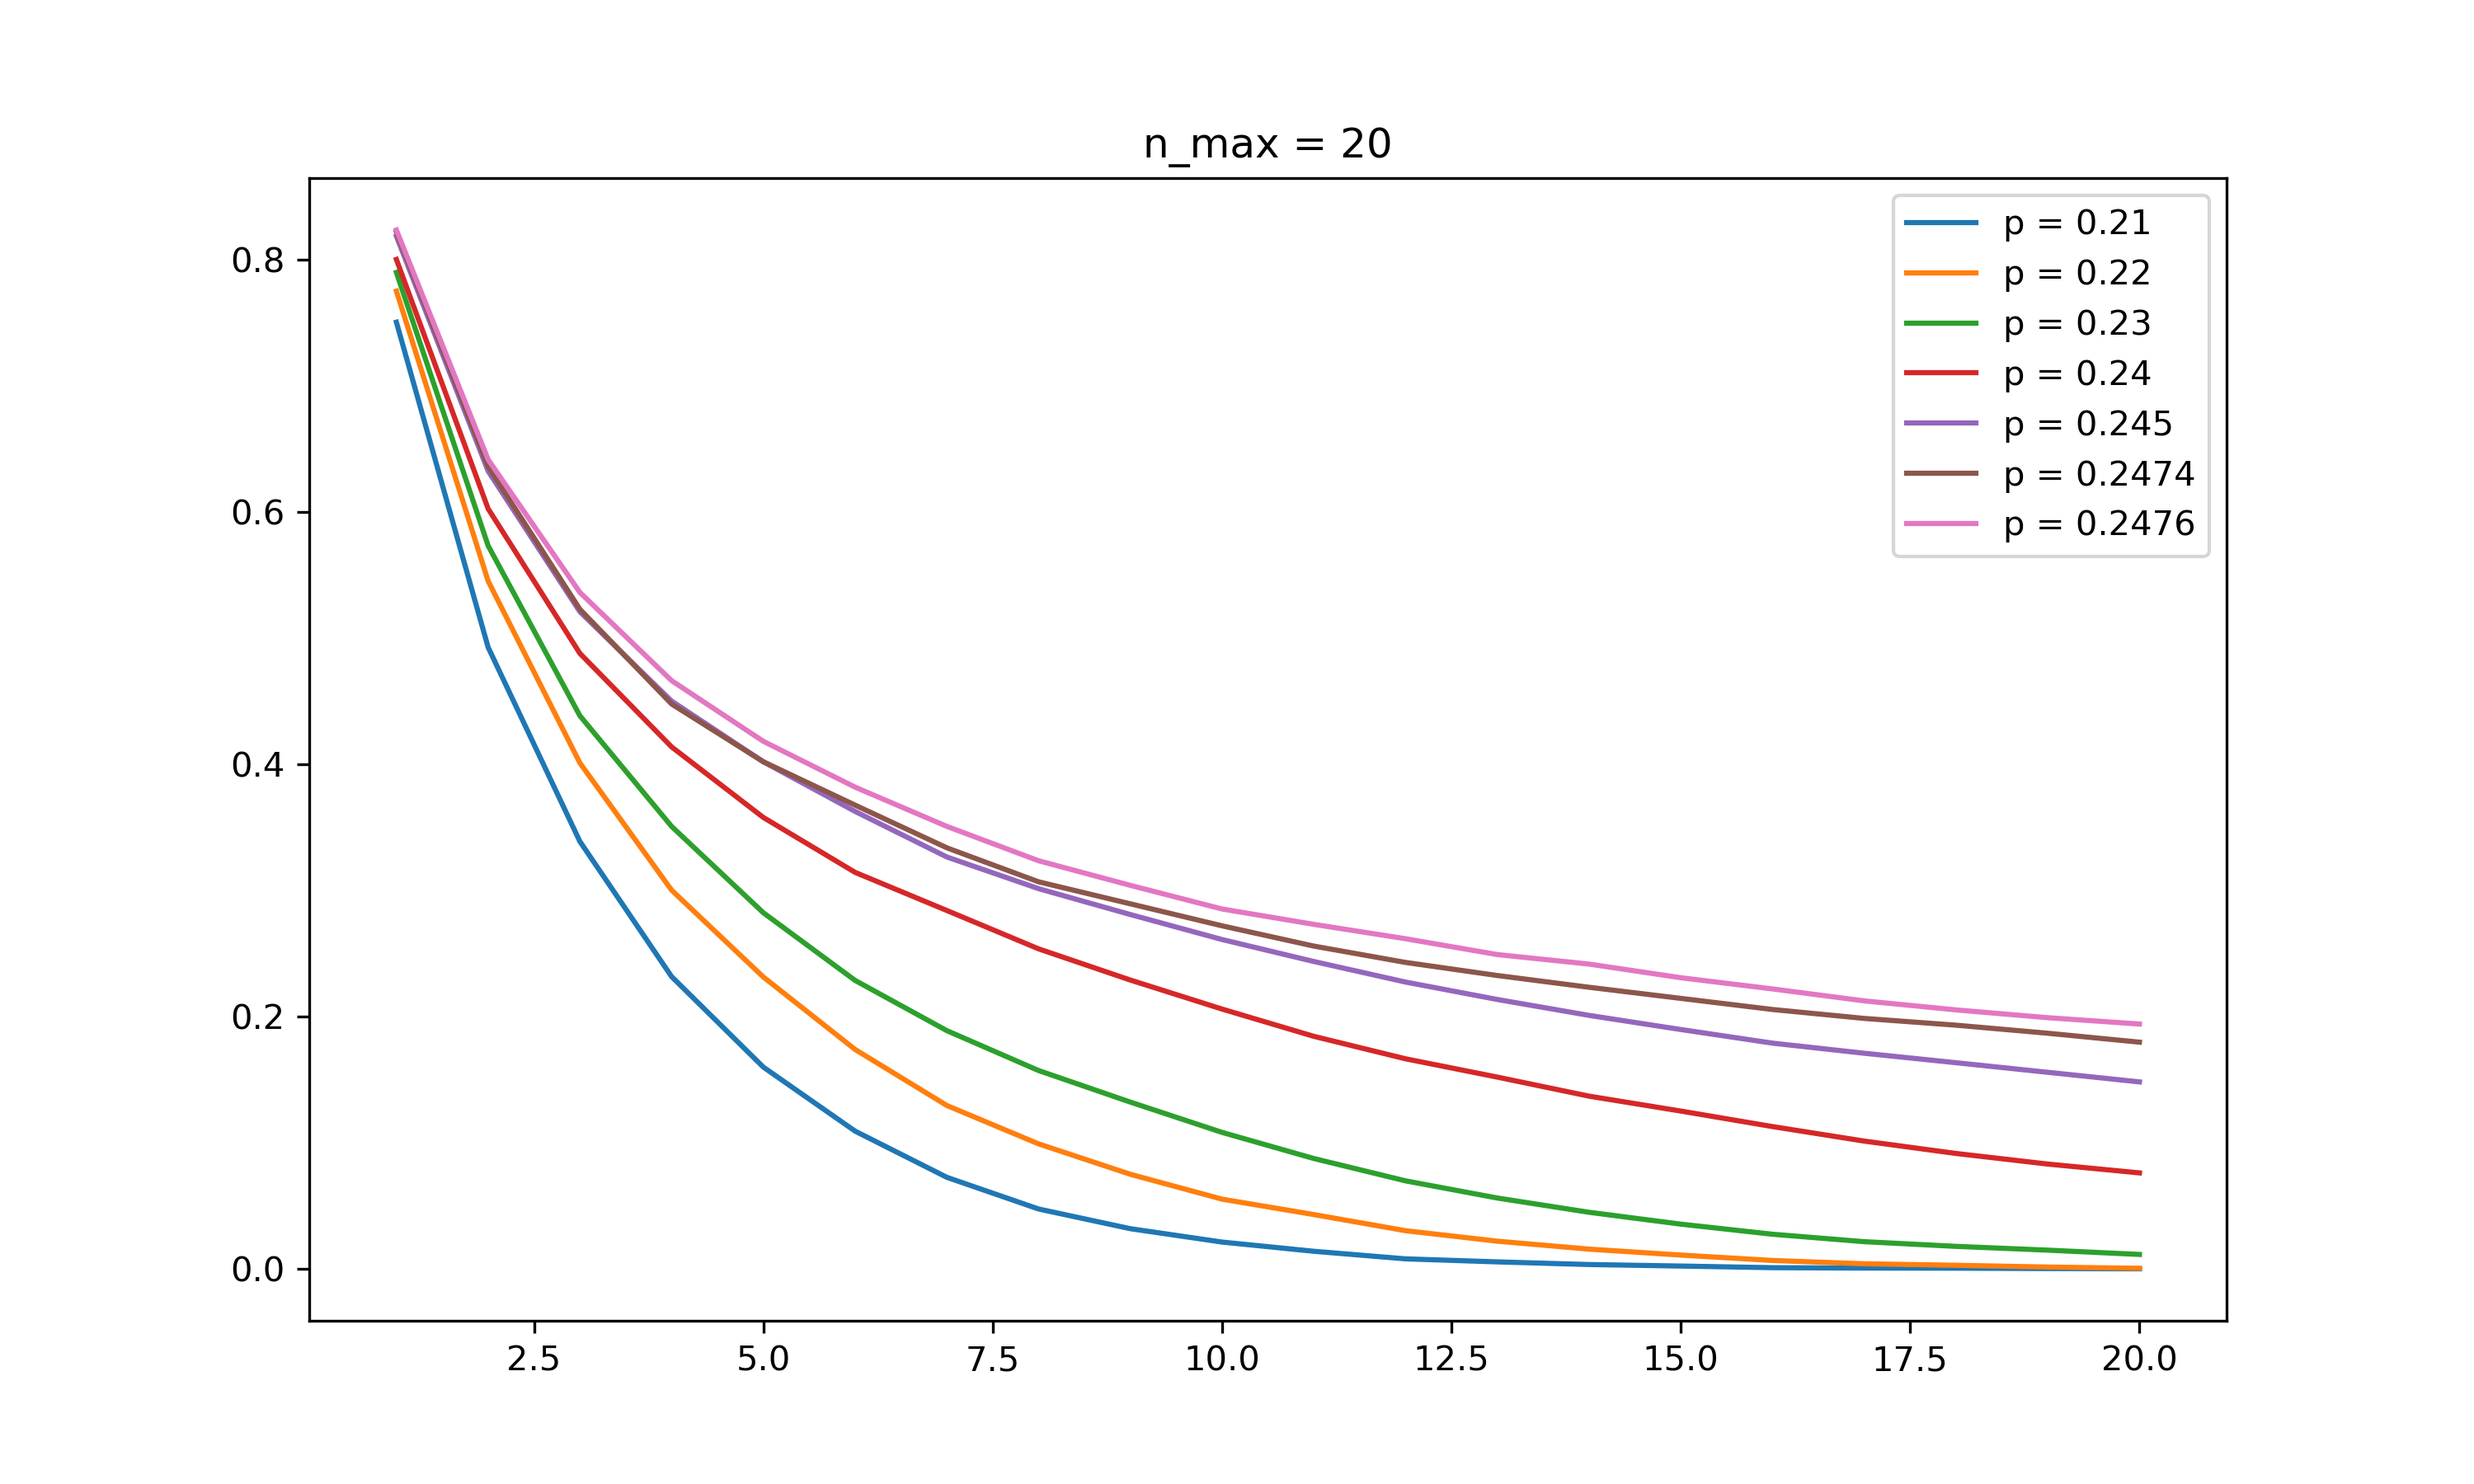
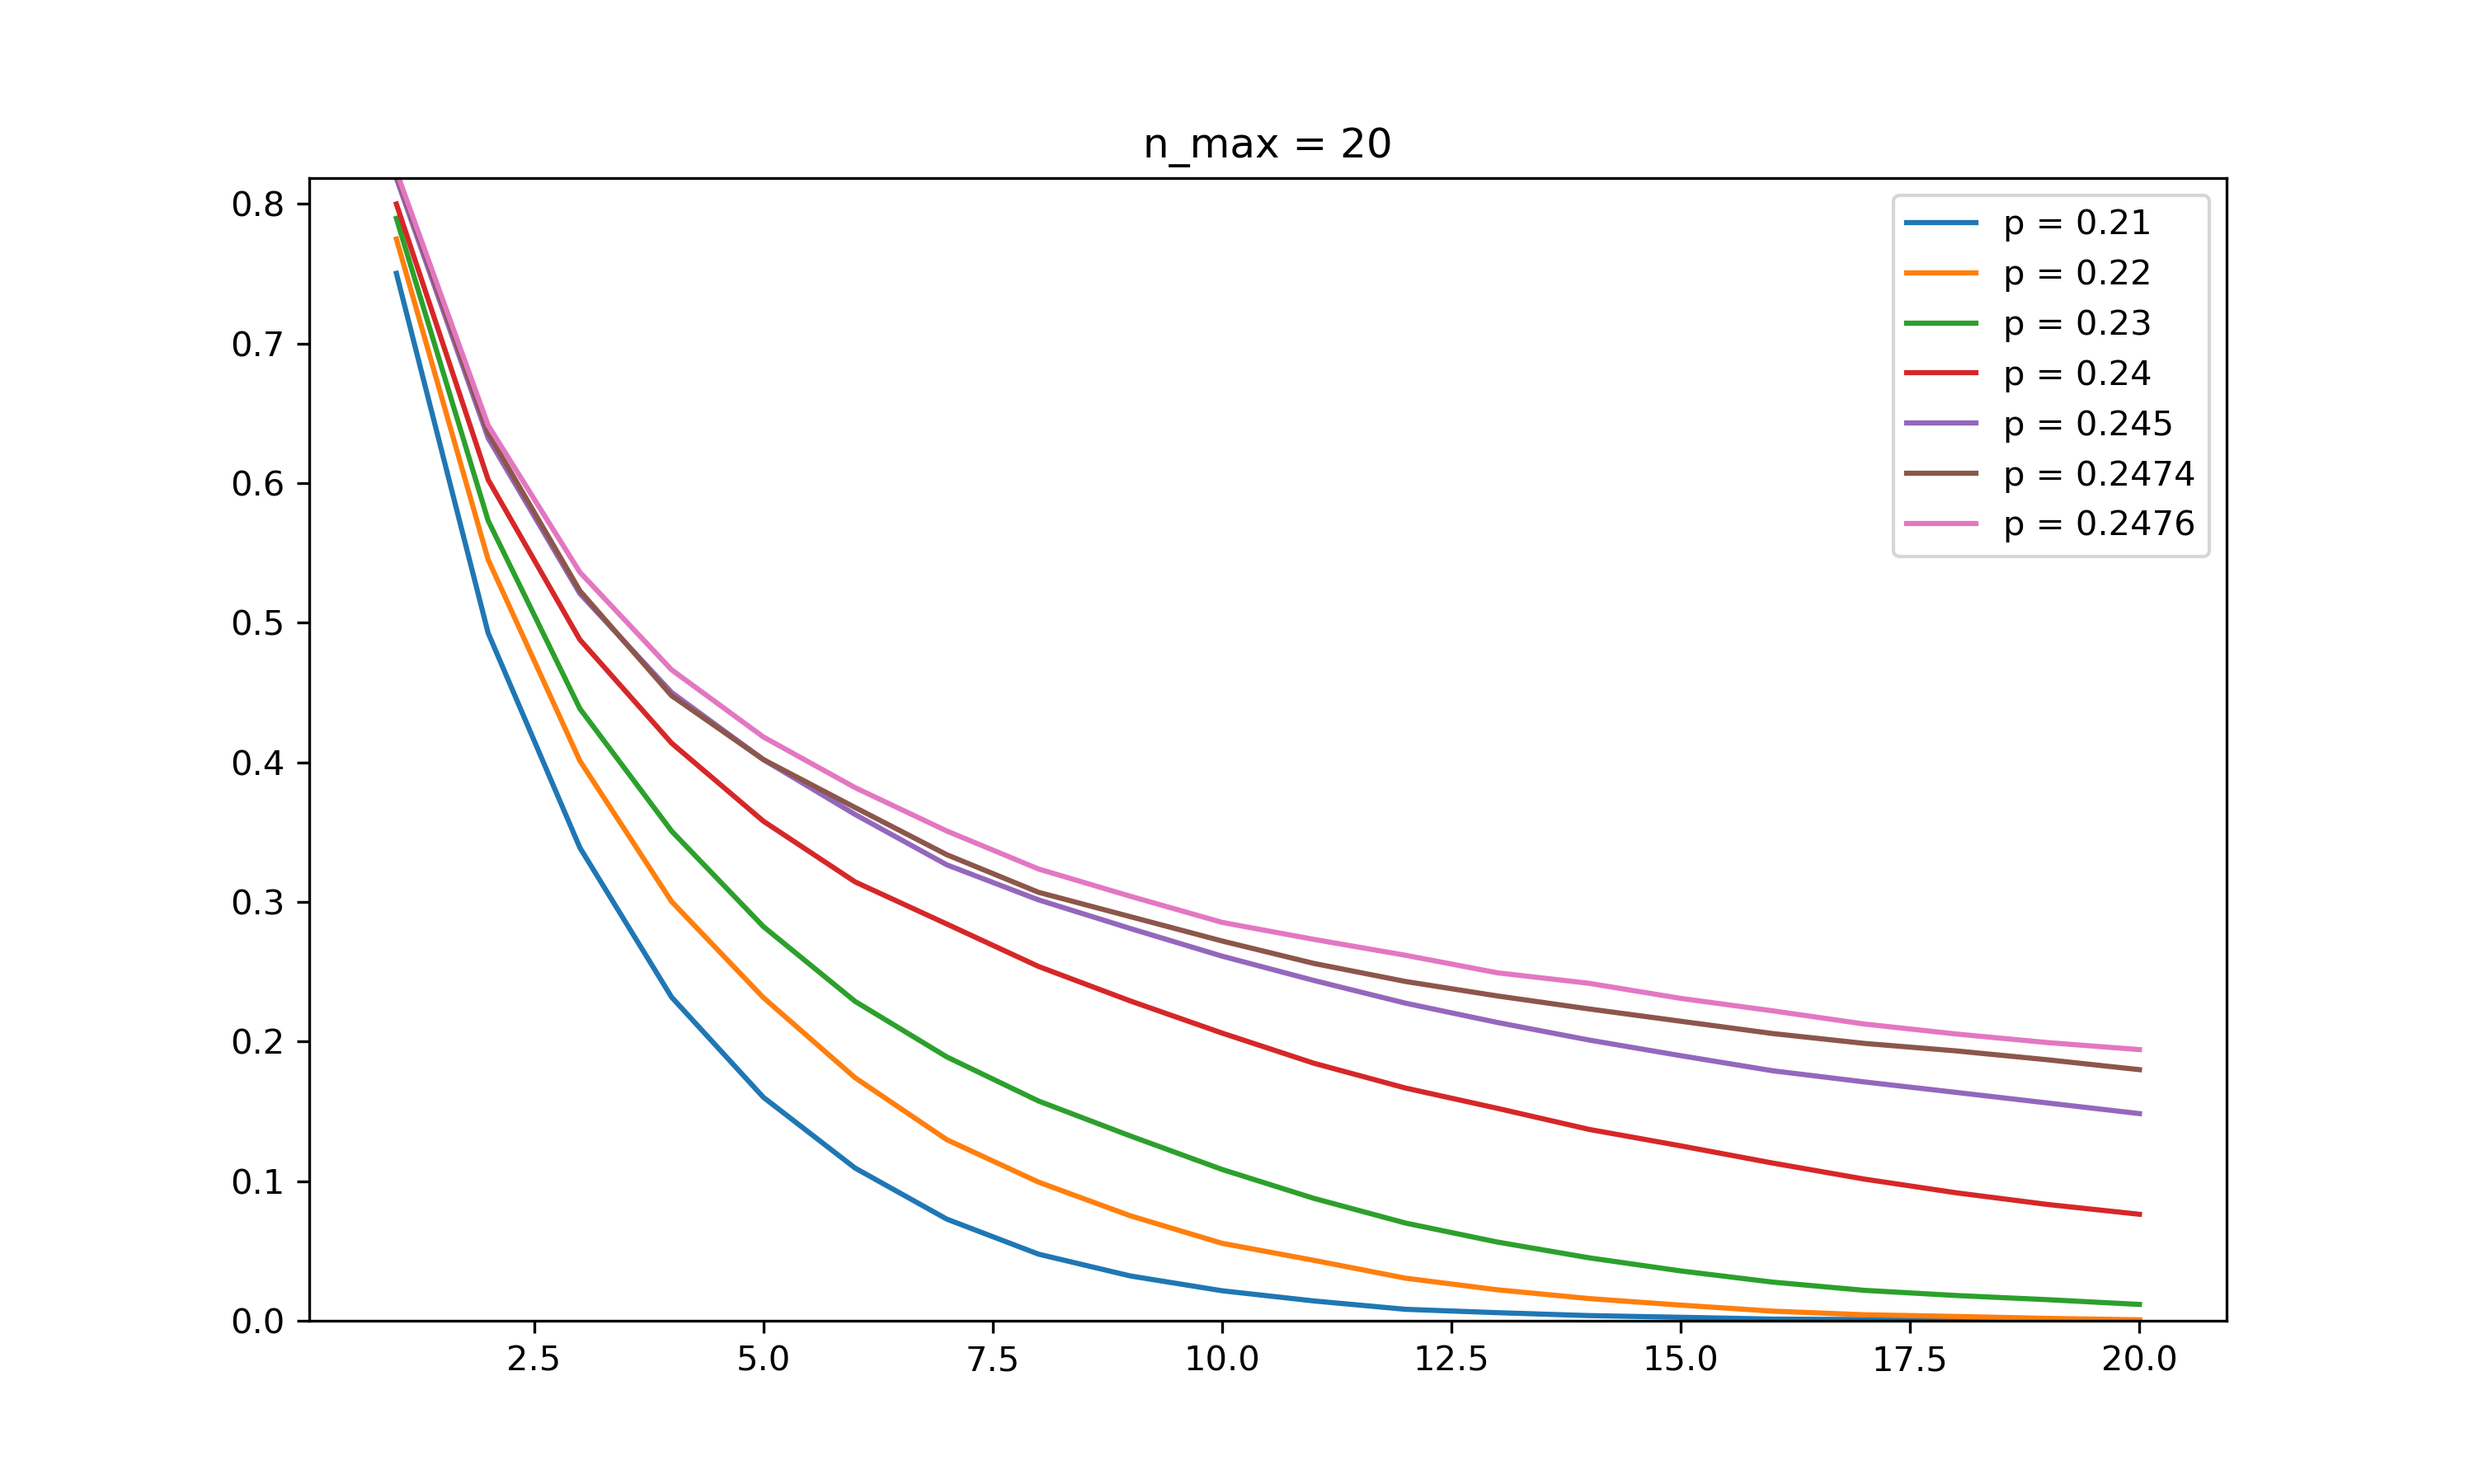
update sep 13

diff --git a/temp2.py b/temp2.py
@@ -5,7 +5,7 @@ import matplotlib.pyplot as plt
 
 # Collect all data
 
-folders = ["test", "test2", "test3", "test4", "test5", "test6"]
+folders = ["test", "test2", "test3", "test4", "test5", "test6", "test7"]
 dest_folder_path = os.path.join(os.getcwd(), "all_record")
 rec = {}
 
@@ -62,11 +62,14 @@ for n_max in rec.keys():
     plt.figure(figsize = (10,6), dpi = 300)
     plt.title(f"n_max = {n_max}")
     p_vals = sorted(list(rec[n_max].keys()))
+    max_density = 0.0
     for p in p_vals:
+        max_density = max(max_density, 1-((1-p)**6))
         trials_done = rec[n_max][p]["trials_done"]
         density = [rec[n_max][p][i]/trials_done for i in range(1, n_max+1)]
         plt.plot(range(1, n_max+1), density, label = f"p = {p}")
     
+    plt.ylim([0.0, max_density])
     plt.legend()
     plt.savefig(os.path.join(dest_folder_path, f"n_max = {n_max}.png"))
     plt.close()

diff --git a/multiprocess_far_point.py b/multiprocess_far_point.py
@@ -100,12 +100,12 @@ def compile_all_data(p, n_max, num_processes, sub_filepath, final_filepath, tria
 
 
                 
-def main(p, n_max, test_folder, mesh_folder):
+def main(p, n_max, trials, num_processes, test_folder, mesh_folder):
     # p_range = np.linspace(0.24, 0.25, 20)
     #p = 0.2485 
     #n_max = 30
-    trials = 10000 # should be divisible by 'num_processes'
-    num_processes = 10
+    # trials = 10000 # should be divisible by 'num_processes'
+    # num_processes = 10
     hit_rec = { "p":p, "trials_done":0}
     for i in range(1, n_max+1):
         hit_rec[i] = 0

diff --git a/seqn.py b/seqn.py
@@ -7,7 +7,6 @@ import multiprocess_far_point as mfp
 p_fine_mesh = [0.2475, 0.2480, 0.2485, 0.2490, 0.2495, 0.2500]
 p_sparsh_mesh = [0.20, 0.21, 0.22, 0.23, 0.24, 0.25]
 p_long = [0.24, 0.25]
-for p in p_fine_mesh[:-1]:
-    p = 0.2495
-    mfp.main(p, n_max = 100, test_folder = "test6", mesh_folder = "fine_ultralong_mesh")
-    break
+p_ultrafine_mesh = [0.2485, 0.249]
+for p in p_ultrafine_mesh:
+    mfp.main(p, n_max = 125, trials = 1000, num_processes = 5, test_folder = "test7", mesh_folder = "ultrafine_ultralong_mesh")

diff --git a/regress.py b/regress.py
@@ -1,0 +1,10 @@
+import os
+import numpy as np
+
+import pickle
+import statsmodels.api as sm
+
+
+with open(os.path.join(os.getcwd(), "all_record", "record.pkl"), "rb") as fp:
+    data = dict(pickle.load(fp))
+
